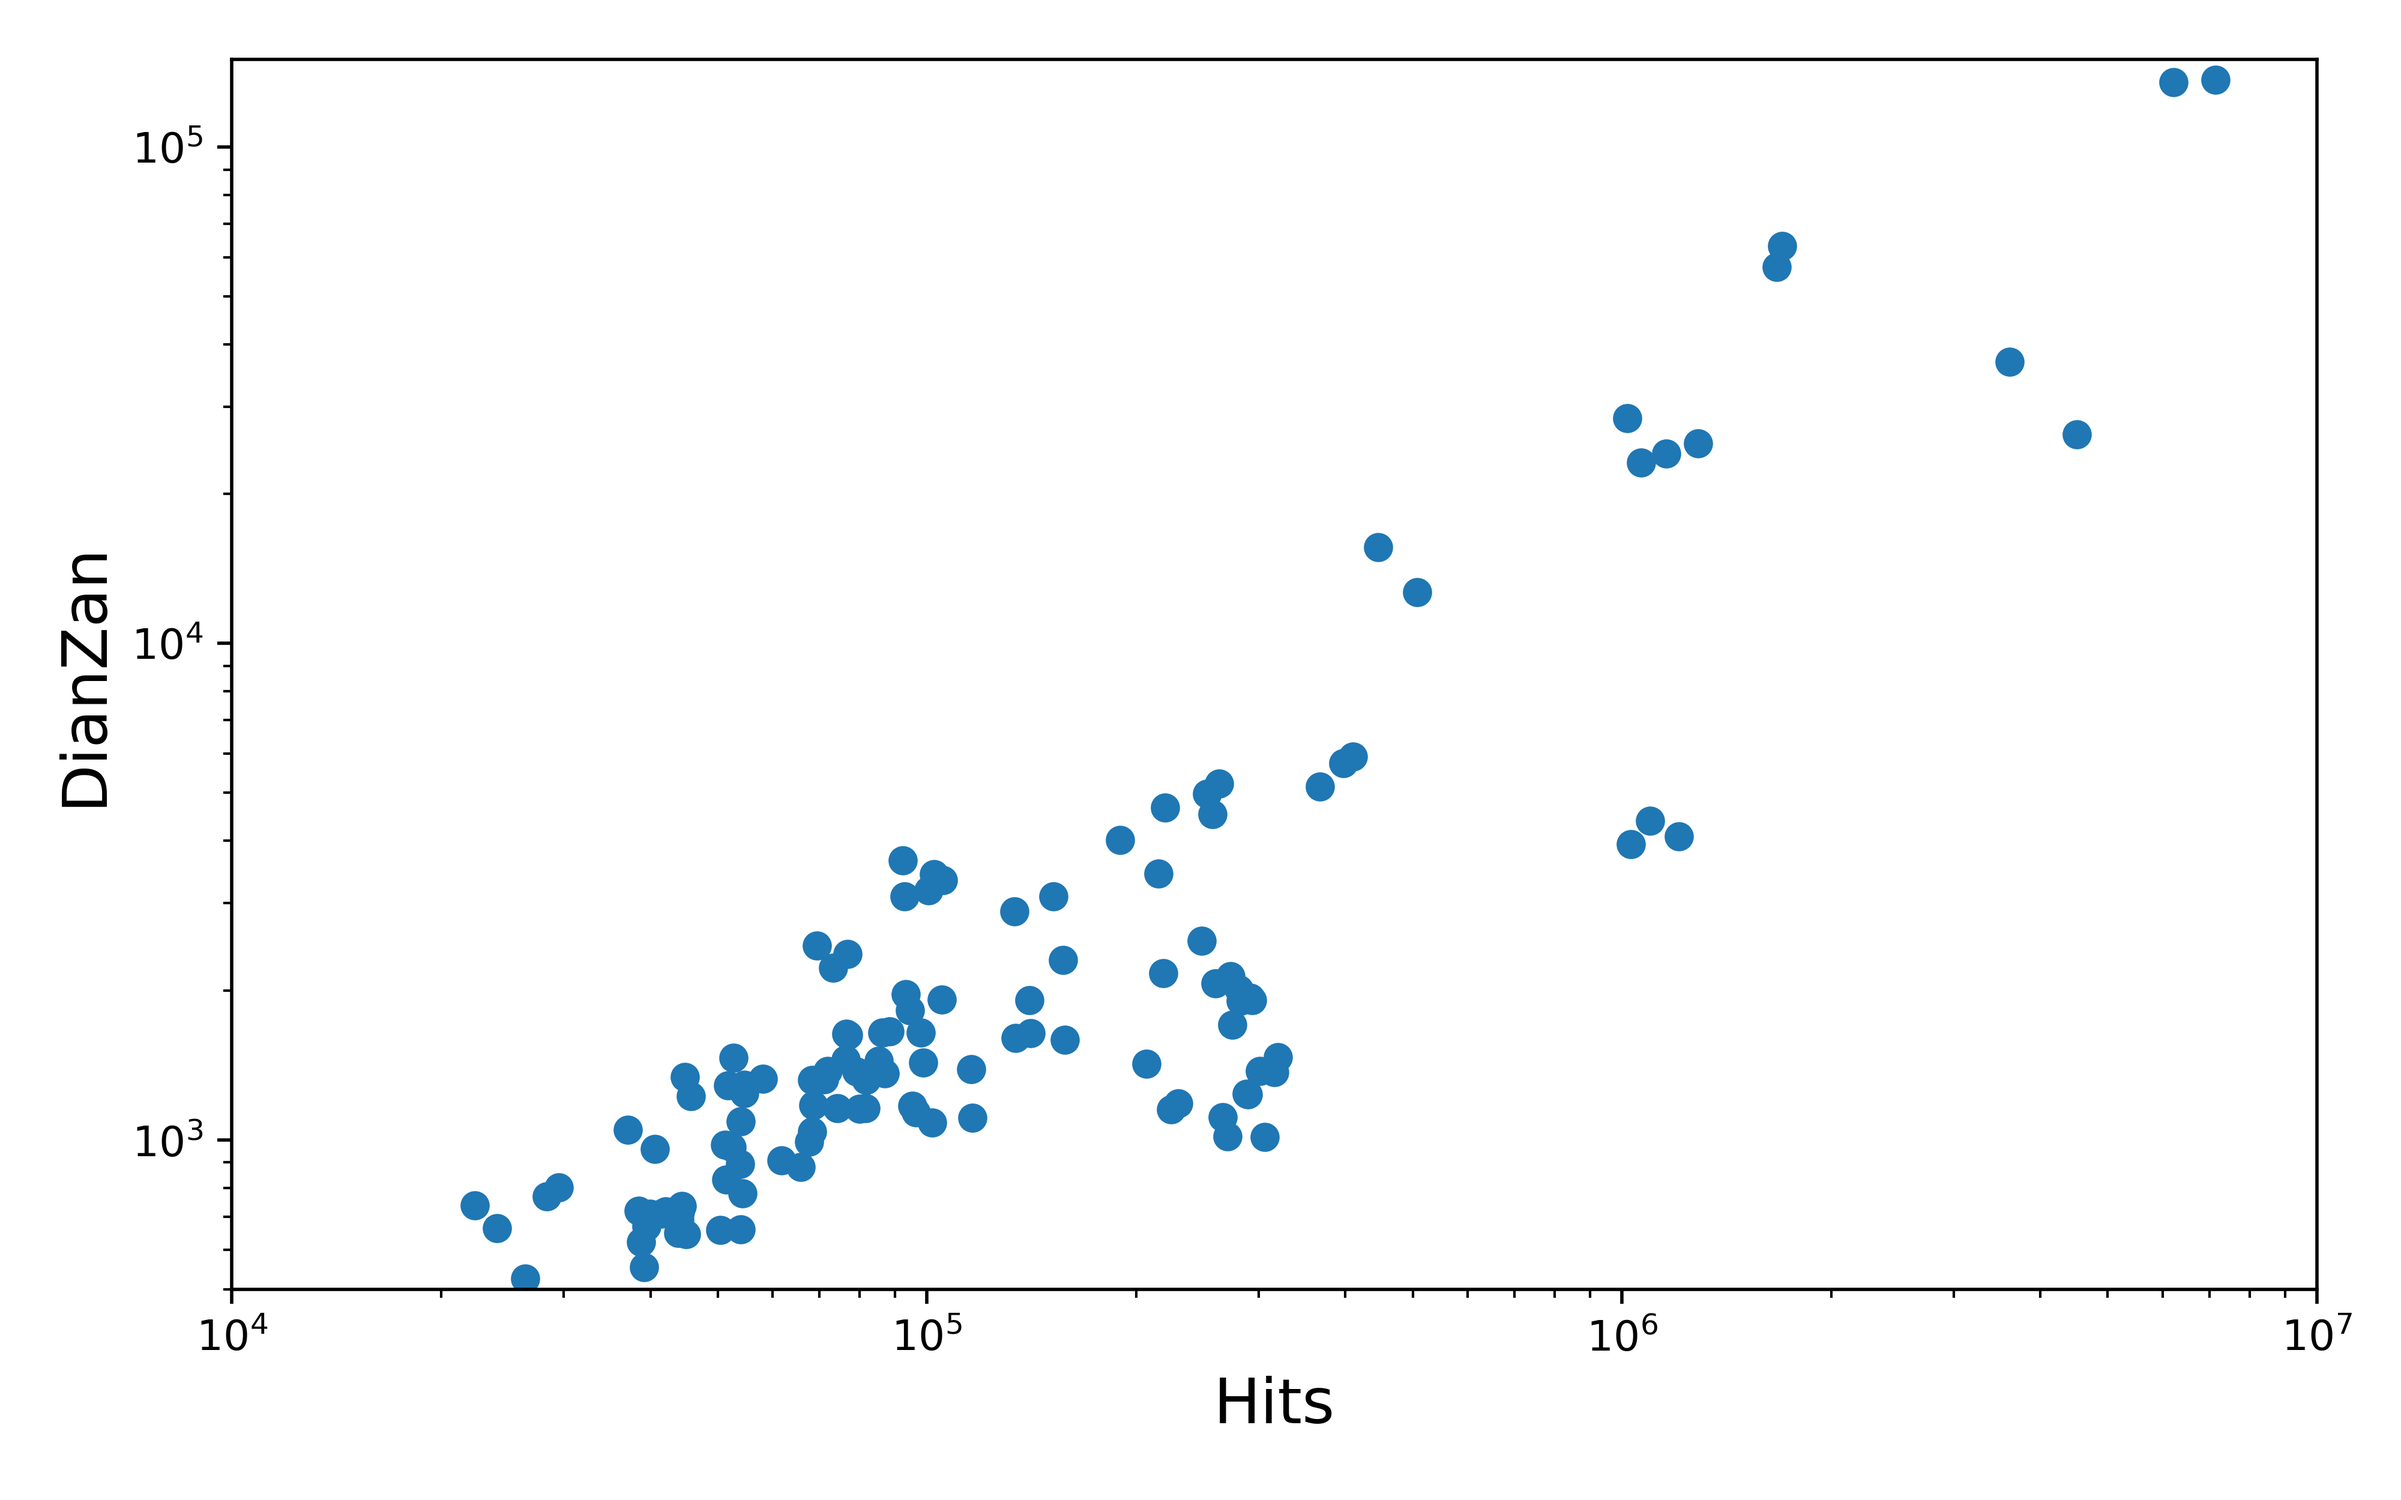
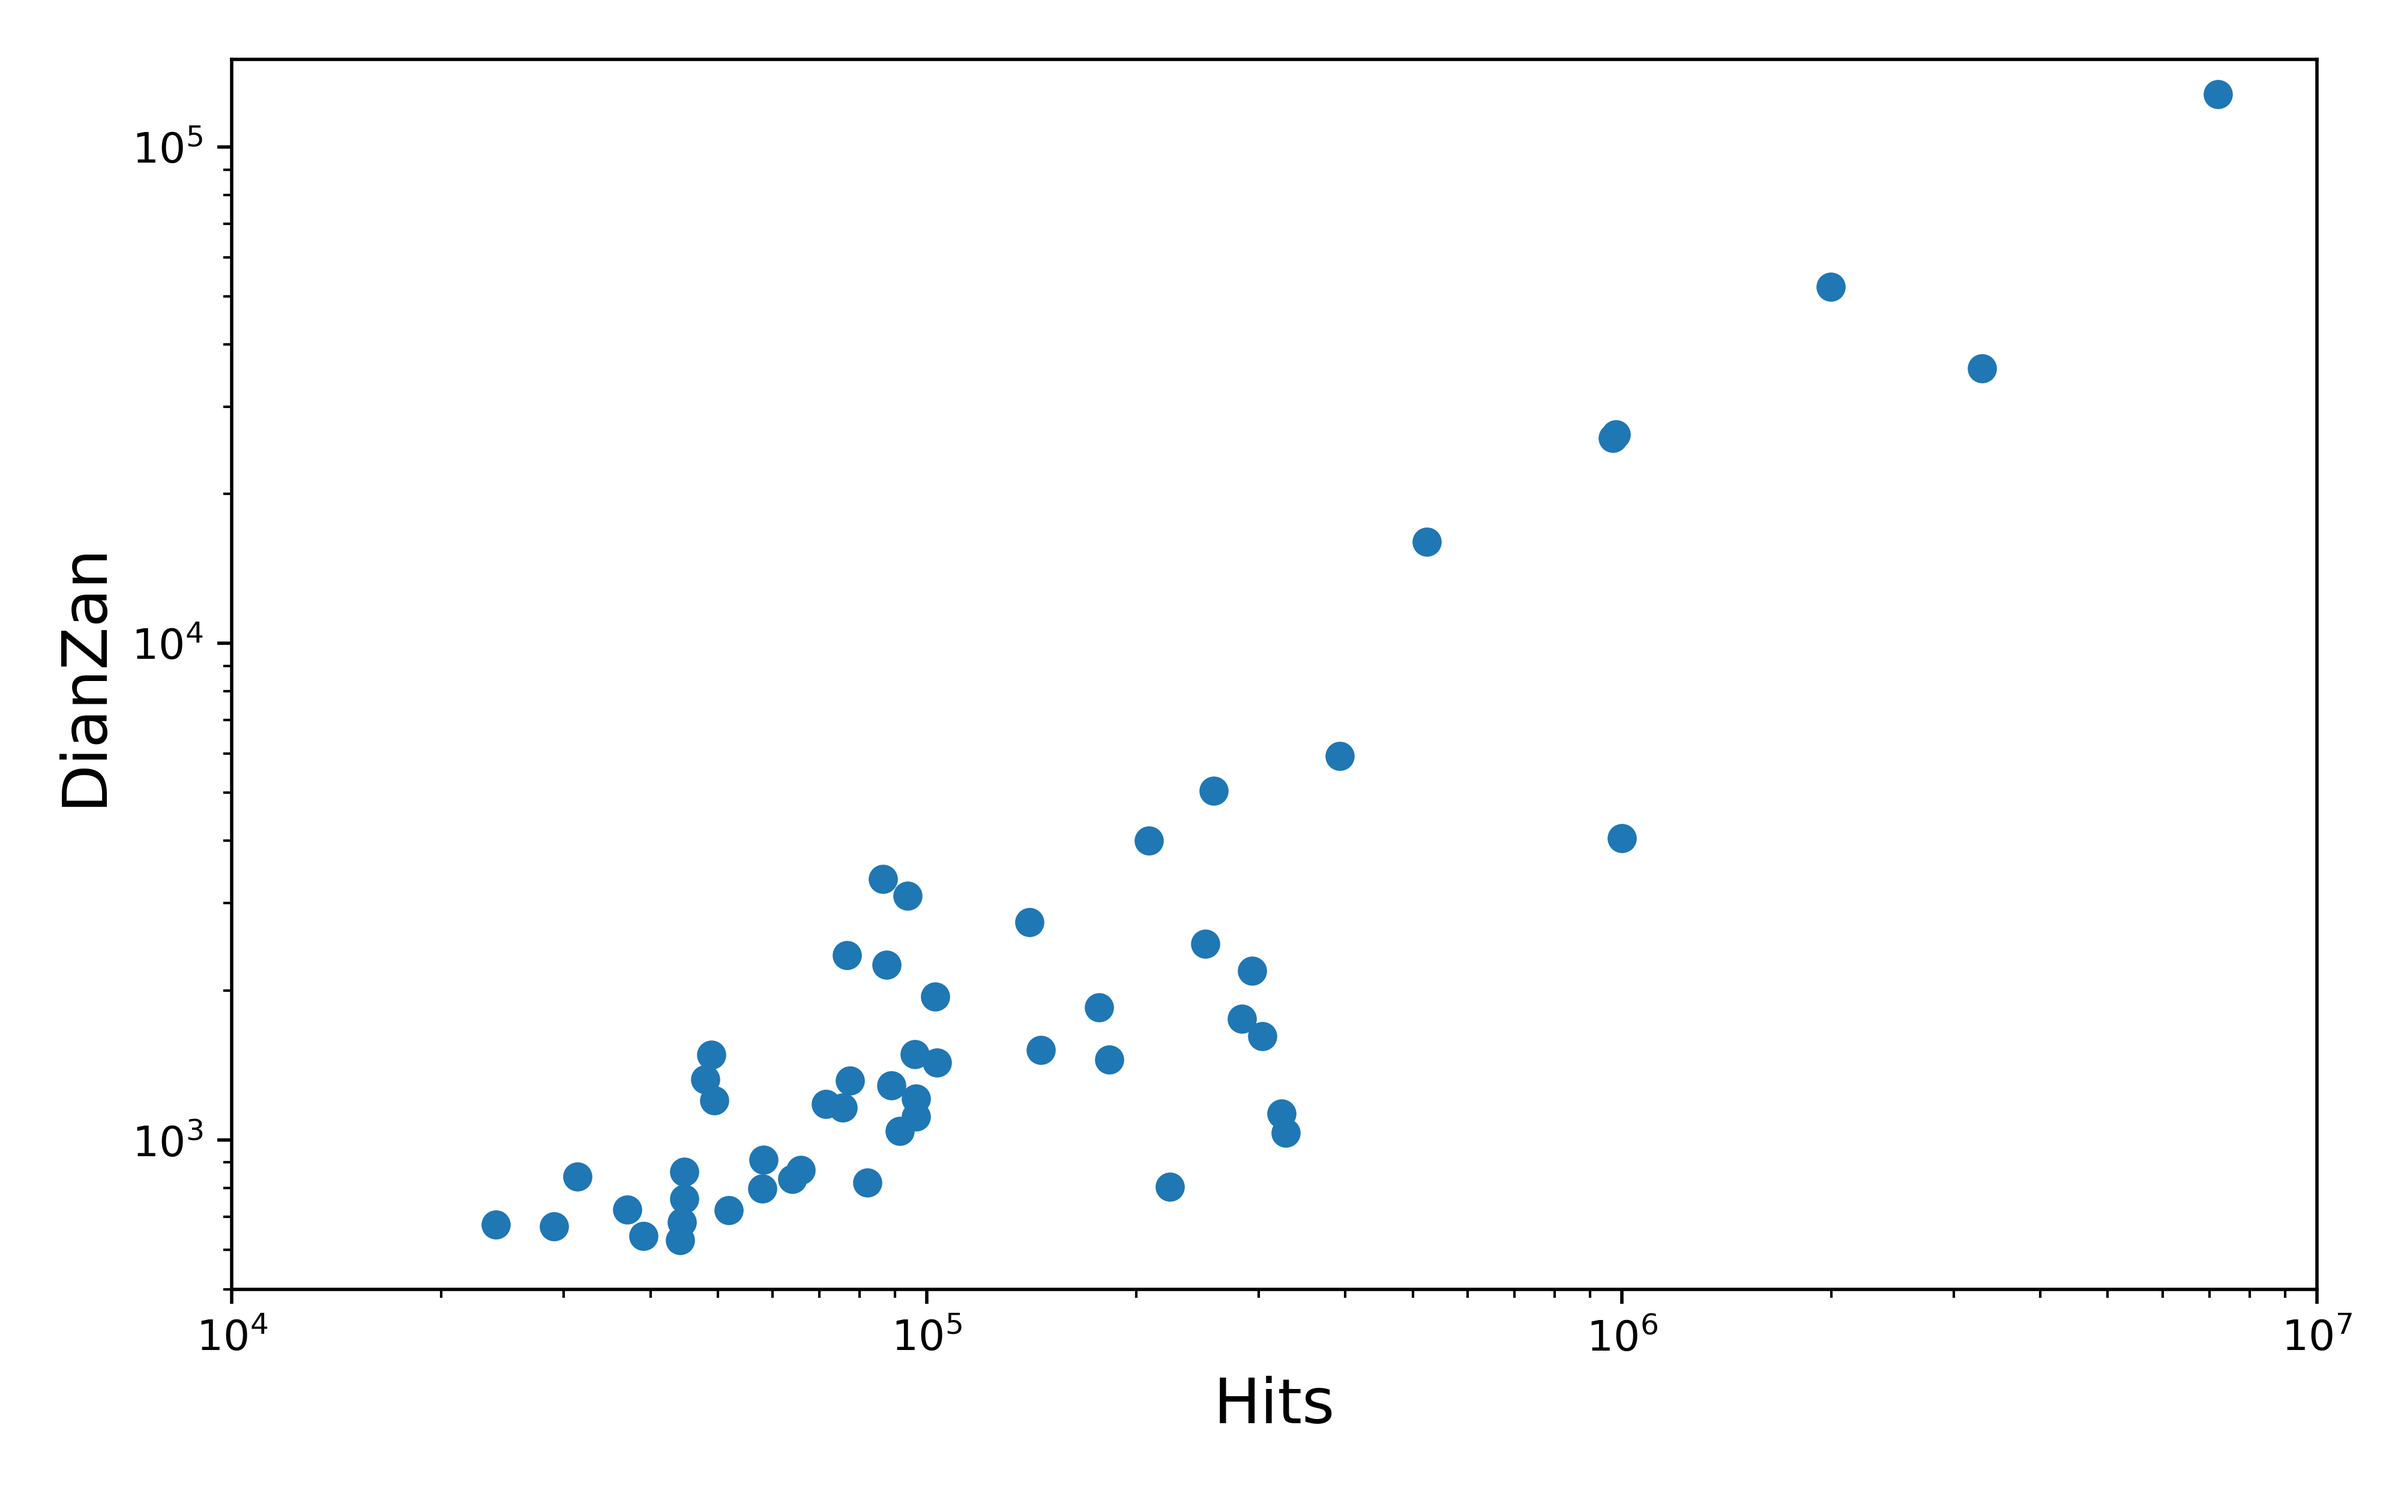
Add files via upload

diff --git a/Videoinfo.py b/Videoinfo.py
@@ -71,6 +71,17 @@ def read_Douyin_videoinfo(file_name):
 file_name = r'C:\\Users\Scrachel\.spyder\Video_info.txt'
 bofang, dianzan, fenxiang, pinglun, biaoti, release_time = \
     read_Douyin_videoinfo(file_name=file_name)
+    
+#####处理数据重复问题  假设不存在更复杂的重复性，即同一播放量只对应同一视频
+bofang_0 = np.unique(bofang)
+index_list = []
+for i in bofang_0:
+    index_list.append(np.argwhere(bofang==i)[0][0])
+    
+bofang = bofang[index_list]
+dianzan = dianzan[index_list]
+    
+
 # =============================================================================
 # #####发布时间
 # fig, ax = plt.subplots(figsize=(8,5))
